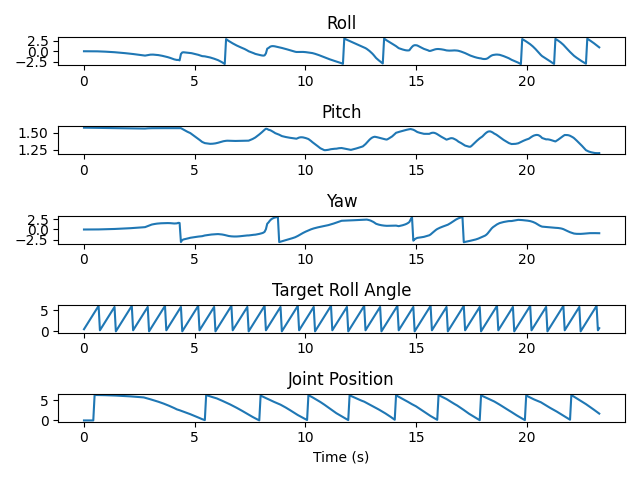
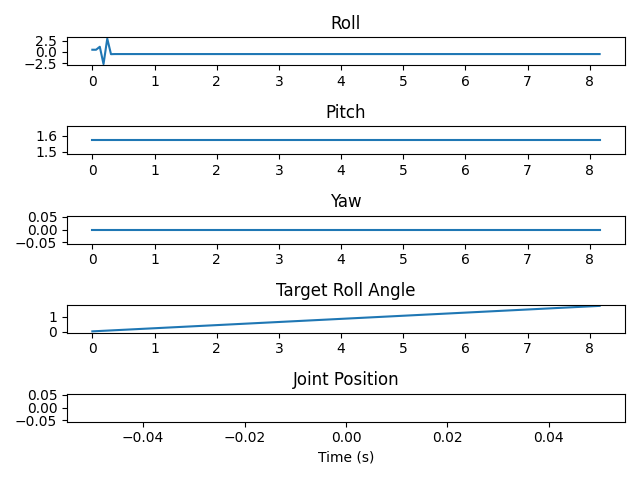
added stable floating milliquad

diff --git a/sim_loop_static.py b/sim_loop_static.py
@@ -9,7 +9,7 @@ from copy import deepcopy
 import copy
 matplotlib.use('Agg')  # Use the non-interactive 'Agg' backend
 
-mjcf_path = "one_milli_quad/scene.xml"
+mjcf_path = "one_milli_quad/scene_static.xml"
 
 
 def add_visual_arrow(scene, from_point, to_point, radius=0.001, rgba=(0, 0, 1, 1)):
@@ -37,15 +37,16 @@ def add_visual_arrow(scene, from_point, to_point, radius=0.001, rgba=(0, 0, 1, 1
                          radius, from_point, to_point)
     scene.ngeom += 1
 
+
+
 model = mujoco.MjModel.from_xml_path(mjcf_path)
-model.opt.timestep = 1./1e3
+model.opt.timestep = 1./5e3
 model.dof_damping[-4:] = 3e-9
 data = mujoco.MjData(model)
 data.qpos[2] = 0.01  # Set initial position of the first joint
 data.qacc[:] = 0  # Initialize accelerations to zero    
-
 timestep = (model.opt.timestep 
-            * 1
+            # * 10
             )
 model.opt.enableflags |= 1 << 0  # enable override
 # solreflimit="4e-3 1" solimplimit=".95 .99 1e-3"
@@ -58,7 +59,7 @@ model.opt.o_solimp[1] = 0.99
 model.opt.o_solimp[2] = 1e-3
 
 pwm_freq = 1000
-drive_freq = 1
+drive_freq = 10
 
 points_per_period = pwm_freq // drive_freq
 angles = np.linspace(0, 2 * np.pi, points_per_period, endpoint=False)
@@ -80,77 +81,84 @@ for i in range(4):
     body_frame = R.from_quat(body_quat)
     init_rs.append(deepcopy(body_frame))
 
-with mujoco.viewer.launch_passive(model, data) as viewer:
-  # Record the start time of the first step.
+# with mujoco.viewer.launch_passive(model, data) as viewer:
+viewer = mujoco.viewer.launch_passive(model, data)
+step_start = time.monotonic()
+viewer.cam.type = mujoco.mjtCamera.mjCAMERA_FIXED
+viewer.cam.fixedcamid = 0
+
+while viewer.is_running() and data.time < 50:
+    print(data.time)
+    # viewer.add_marker(
+    #     pos=[0, 0, 0],
+    #     type=mujoco.mjtGeom.mjGEOM_NONE,
+    #     size=[0.1, 0.1, 0.1],
+    #     rgba=[1, 1, 1, 1],
+    #     label="time: {}".format(data.time)
+    # )
+    # apply a feedback external force on the main body so the position is about 1 cm in z, based on the current position
+    z_target = 0.01
+    z_current = data.xpos[1, 2]
+    z_vel = data.qvel[0]
+    z_error = z_target - z_current
+    kpz = 0.1
+    kpv = 0.006
+    data.xfrc_applied[1, 2] = kpz * z_error + 1.1 * 9.81 * np.sum(model.body_mass[:]) - kpv * z_vel
+
+    viewer.user_scn.ngeom = 0
+
+    angle = angles[int((data.time * pwm_freq) % points_per_period)]
+    angs.append(angle)
+
+    mag_norths = np.zeros((4, 3))
+    goal_norths = np.zeros((4, 3))
+
+    for i in range(4):
+        body_idx = i + 2
+        body_quat = data.xquat[body_idx]
+        body_pos = data.xpos[body_idx]
+        body_frame = R.from_quat(body_quat, scalar_first=True)
+        arr_len = 0.01
+        body_frame_dir = np.array([0,1,0])
+        world_frame_dir = np.array([0,0,1])
+        base_rot = init_rs[i]
+        magnet_north = body_frame.as_matrix() @  body_frame_dir
+        mag_norths[i] = magnet_north
+        to = body_pos + arr_len * magnet_north
+
+        rpy_rot = R.from_euler('y', angle, degrees=False)
+        goal_north = rpy_rot.as_matrix() @ world_frame_dir
+        goal_norths[i] = goal_north
+        to_goal = body_pos + arr_len * goal_north
+
+        add_visual_arrow(viewer.user_scn, body_pos[:3], to, rgba=(0, 1, 0, 1))
+        add_visual_arrow(viewer.user_scn, body_pos[:3], to_goal, radius=0.0005, rgba=(1, 0, 0, 0.5))
+
+        roll, pitch, yaw = body_frame.as_euler('zxy', degrees=False)
+        kp_mag = 5e-6
+        kv_mag = 1e-7 * 0
+
+        data.xfrc_applied[body_idx,3:] = kp_mag * np.cross(magnet_north, goal_north) - kv_mag * np.dot(magnet_north, goal_north)
+
+    #     if i == 0:
+    #         roll, pitch, yaw = body_frame.as_euler('zxy', degrees=False)
+    #         rolls.append(roll)
+    #         pitches.append(pitch)
+    #         yaws.append(yaw)
+
+    # jnts.append(data.qpos[7])     
+    # print(f"acc: {data.qacc}")
+    # print(f"vel: {data.qvel}")
+
+    print(f"xfrc: {data.xfrc_applied}")
+
+    mujoco.mj_step(model, data)
+    viewer.sync()
+
+    time_until_next_step = timestep - (time.monotonic() - step_start)
+    if time_until_next_step > 0:
+        time.sleep(time_until_next_step)
     step_start = time.monotonic()
-    viewer.cam.type = mujoco.mjtCamera.mjCAMERA_FIXED
-    viewer.cam.fixedcamid = 0
-
-    while viewer.is_running() and data.time < 50:
-        # apply a feedback external force on the main body so the position is about 1 cm in z, based on the current position
-        z_target = 0.01
-        z_current = data.xpos[1, 2]
-        z_vel = data.qvel[2]
-        z_error = z_target - z_current
-        kpz = 0.1
-        kpv = 0.001
-        data.xfrc_applied[1, 2] = kpz * z_error + 9.81 * np.sum(model.body_mass[:]) - kpv * z_vel
-
-        viewer.user_scn.ngeom = 0
-
-        angle = angles[int((data.time * pwm_freq) % points_per_period)]
-        angs.append(angle)
-
-        mag_norths = np.zeros((4, 3))
-        goal_norths = np.zeros((4, 3))
-
-        for i in range(4):
-            body_idx = i + 2
-            body_quat = data.xquat[body_idx]
-            body_pos = data.xpos[body_idx]
-            body_frame = R.from_quat(body_quat, scalar_first=True)
-            arr_len = 0.01
-            body_frame_dir = np.array([0,1,0])
-            world_frame_dir = np.array([0,0,1])
-            base_rot = init_rs[i]
-            magnet_north = body_frame.as_matrix() @  body_frame_dir
-            mag_norths[i] = magnet_north
-            to = body_pos + arr_len * magnet_north
-
-            rpy_rot = R.from_euler('y', angle, degrees=False)
-            goal_north = rpy_rot.as_matrix() @ world_frame_dir
-            goal_norths[i] = goal_north
-            to_goal = body_pos + arr_len * goal_north
-
-            add_visual_arrow(viewer.user_scn, body_pos[:3], to, rgba=(0, 1, 0, 1))
-            add_visual_arrow(viewer.user_scn, body_pos[:3], to_goal, radius=0.0005, rgba=(1, 0, 0, 0.5))
-
-            roll, pitch, yaw = body_frame.as_euler('zxy', degrees=False)
-            kp_mag = 1e-17 * 0
-            # kv_mag = 1e-9
-
-            # data.xfrc_applied[i,:] = - kp_mag * ang_error_abs * error_sign * np.array([0, 0, 0, 0, 1, 0])
-            # data.xfrc_applied[i,3:] = kp_mag * np.cross(magnet_north, goal_north)
-
-        #     if i == 0:
-        #         roll, pitch, yaw = body_frame.as_euler('zxy', degrees=False)
-        #         rolls.append(roll)
-        #         pitches.append(pitch)
-        #         yaws.append(yaw)
-
-        # jnts.append(data.qpos[7])     
-        print(f"acc: {data.qacc}")
-        print(f"vel: {data.qvel}")
-
-
-
-        mujoco.mj_step(model, data)
-        viewer.sync()
-
-        time_until_next_step = timestep - (time.monotonic() - step_start)
-        if time_until_next_step > 0:
-            time.sleep(time_until_next_step)
-        step_start = time.monotonic()
 
 # plt.figure()
 # tot_plots = 5

diff --git a/viewer_test.py b/viewer_test.py
@@ -1,0 +1,80 @@
+import mujoco
+import mujoco.viewer
+import time
+import numpy as np
+
+# A minimal MJCF model with a spinning box. No external files are needed.
+xml = """
+<mujoco>
+  <worldbody>
+    <light name="top" pos="0 0 1.5"/>
+    <body name="box_body" pos="0 0 0.3">
+      <joint name="box_joint" type="hinge" axis="0 0 1"/>
+      <geom name="box" type="box" size=".1 .1 .1" rgba="0.8 0.2 0.2 1"/>
+    </body>
+  </worldbody>
+  <actuator>
+    <motor name="spin_motor" joint="box_joint" gear="0.25"/>
+  </actuator>
+</mujoco>
+"""
+
+# Load the model and create the data instance.
+model = mujoco.MjModel.from_xml_string(xml)
+data = mujoco.MjData(model)
+
+
+def render_text_overlay(viewport, context):
+    """
+    This function is called every frame to draw the text overlay.
+    It receives the viewport and rendering context as arguments.
+    """
+    # --- Display Simulation Time ---
+    time_text = f"Time: {data.time:.2f} s"
+    mujoco.mjr_text(
+        font=mujoco.mjtFont.mjFONT_NORMAL,
+        txt=time_text,
+        context=context,
+        x=10,  # X-position in pixels from the left
+        y=viewport.height - 30,  # Y-position in pixels from the bottom
+        r=1.0, g=1.0, b=1.0  # White color
+    )
+
+    # --- Display Actuator Control Value ---
+    ctrl_text = f"Control Input: {data.ctrl[0]:.2f}"
+    mujoco.mjr_text(
+        font=mujoco.mjtFont.mjFONT_NORMAL,
+        txt=ctrl_text,
+        context=context,
+        x=10,  # X-position in pixels from the left
+        y=viewport.height - 55,  # Y-position below the first line
+        r=0.5, g=0.8, b=1.0  # Light blue color
+    )
+
+# --- Main Simulation ---
+
+# Launch the passive viewer.
+# The 'with' statement ensures the viewer is properly closed.
+with mujoco.viewer.launch_passive(model, data) as viewer:
+    # Assign the callback function to the viewer's overlay.
+    # This is done ONCE, before the simulation loop starts.
+    viewer.user_scn.overlay = render_text_overlay
+
+    # The main simulation loop.
+    while viewer.is_running():
+        step_start = time.time()
+
+        # Apply a sinusoidal control signal to the motor.
+        data.ctrl[0] = np.sin(data.time * 2)
+
+        # Advance the simulation by one step.
+        mujoco.mj_step(model, data)
+
+        # Update the viewer to reflect the new simulation state.
+        viewer.sync()
+
+        # Rudimentary real-time synchronization to make the simulation
+        # run at a speed close to real-time.
+        time_until_next_step = model.opt.timestep - (time.time() - step_start)
+        if time_until_next_step > 0:
+            time.sleep(time_until_next_step)
